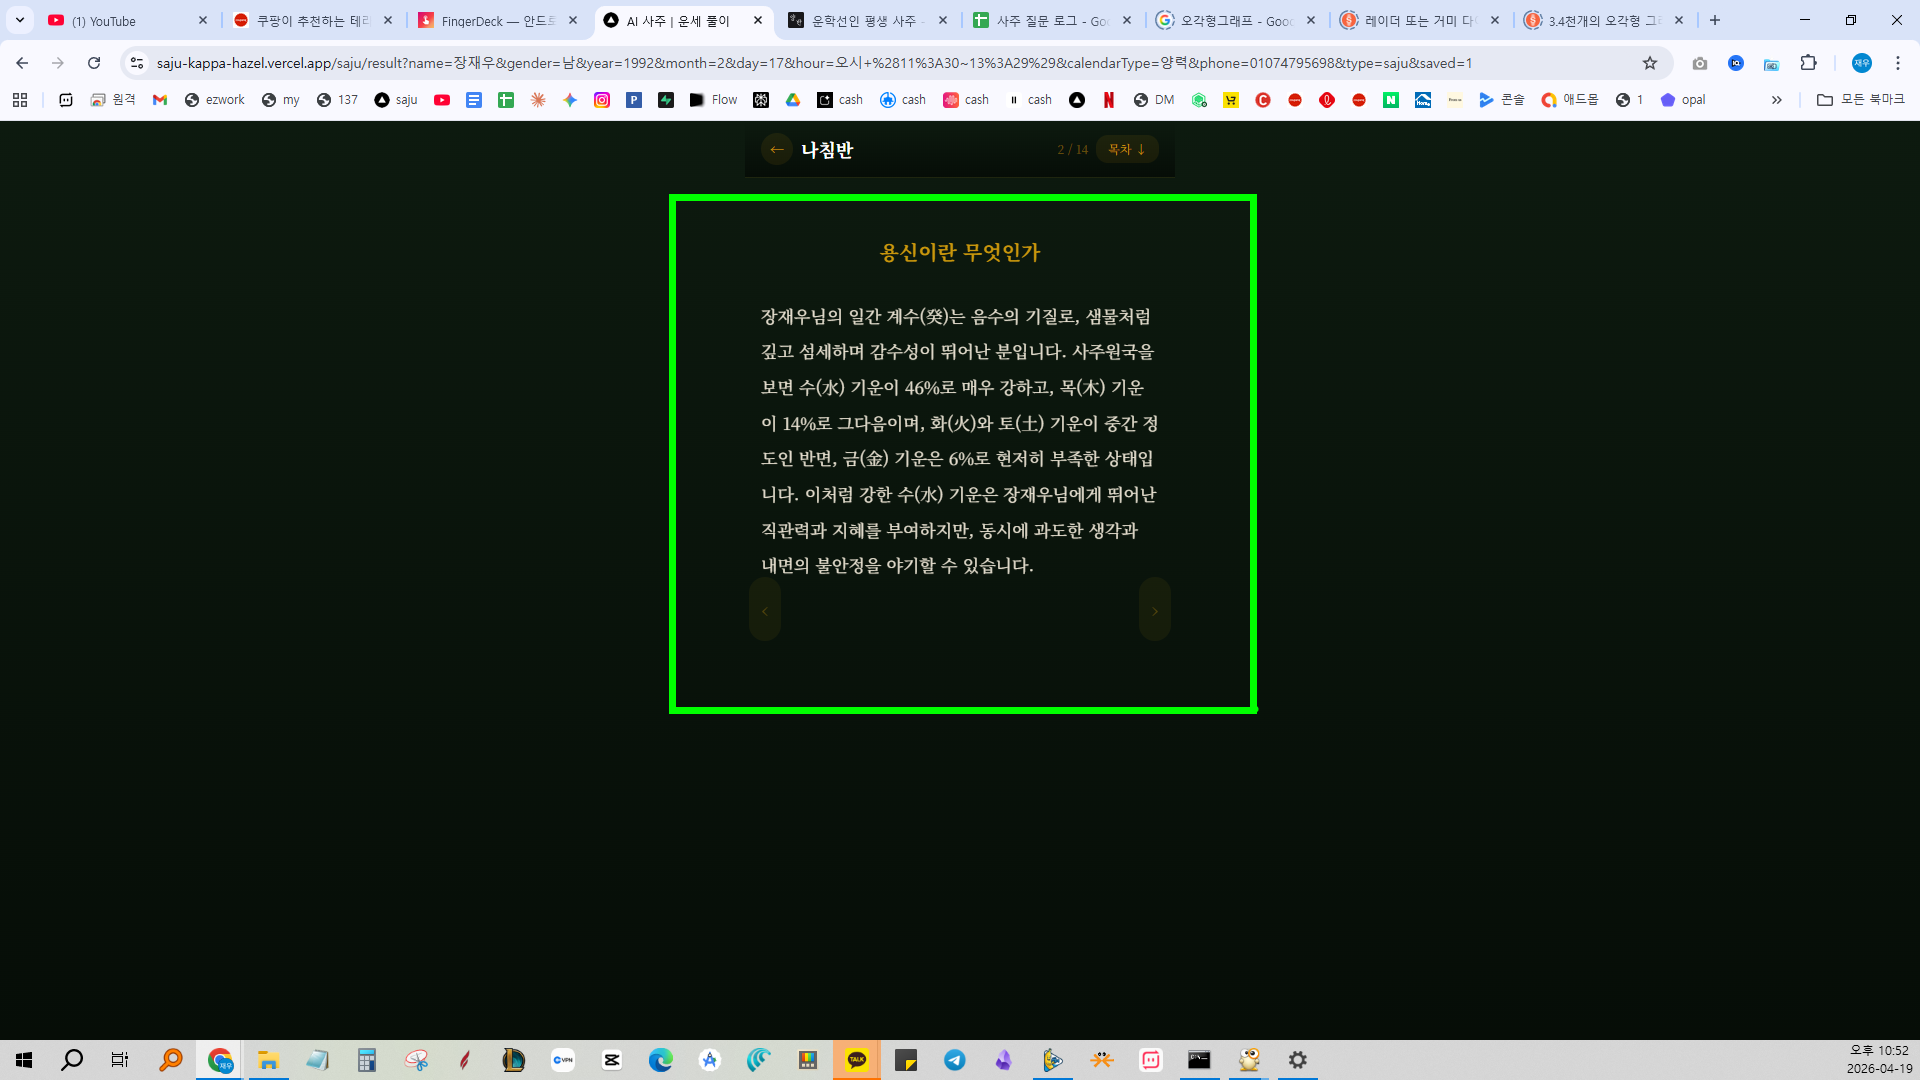
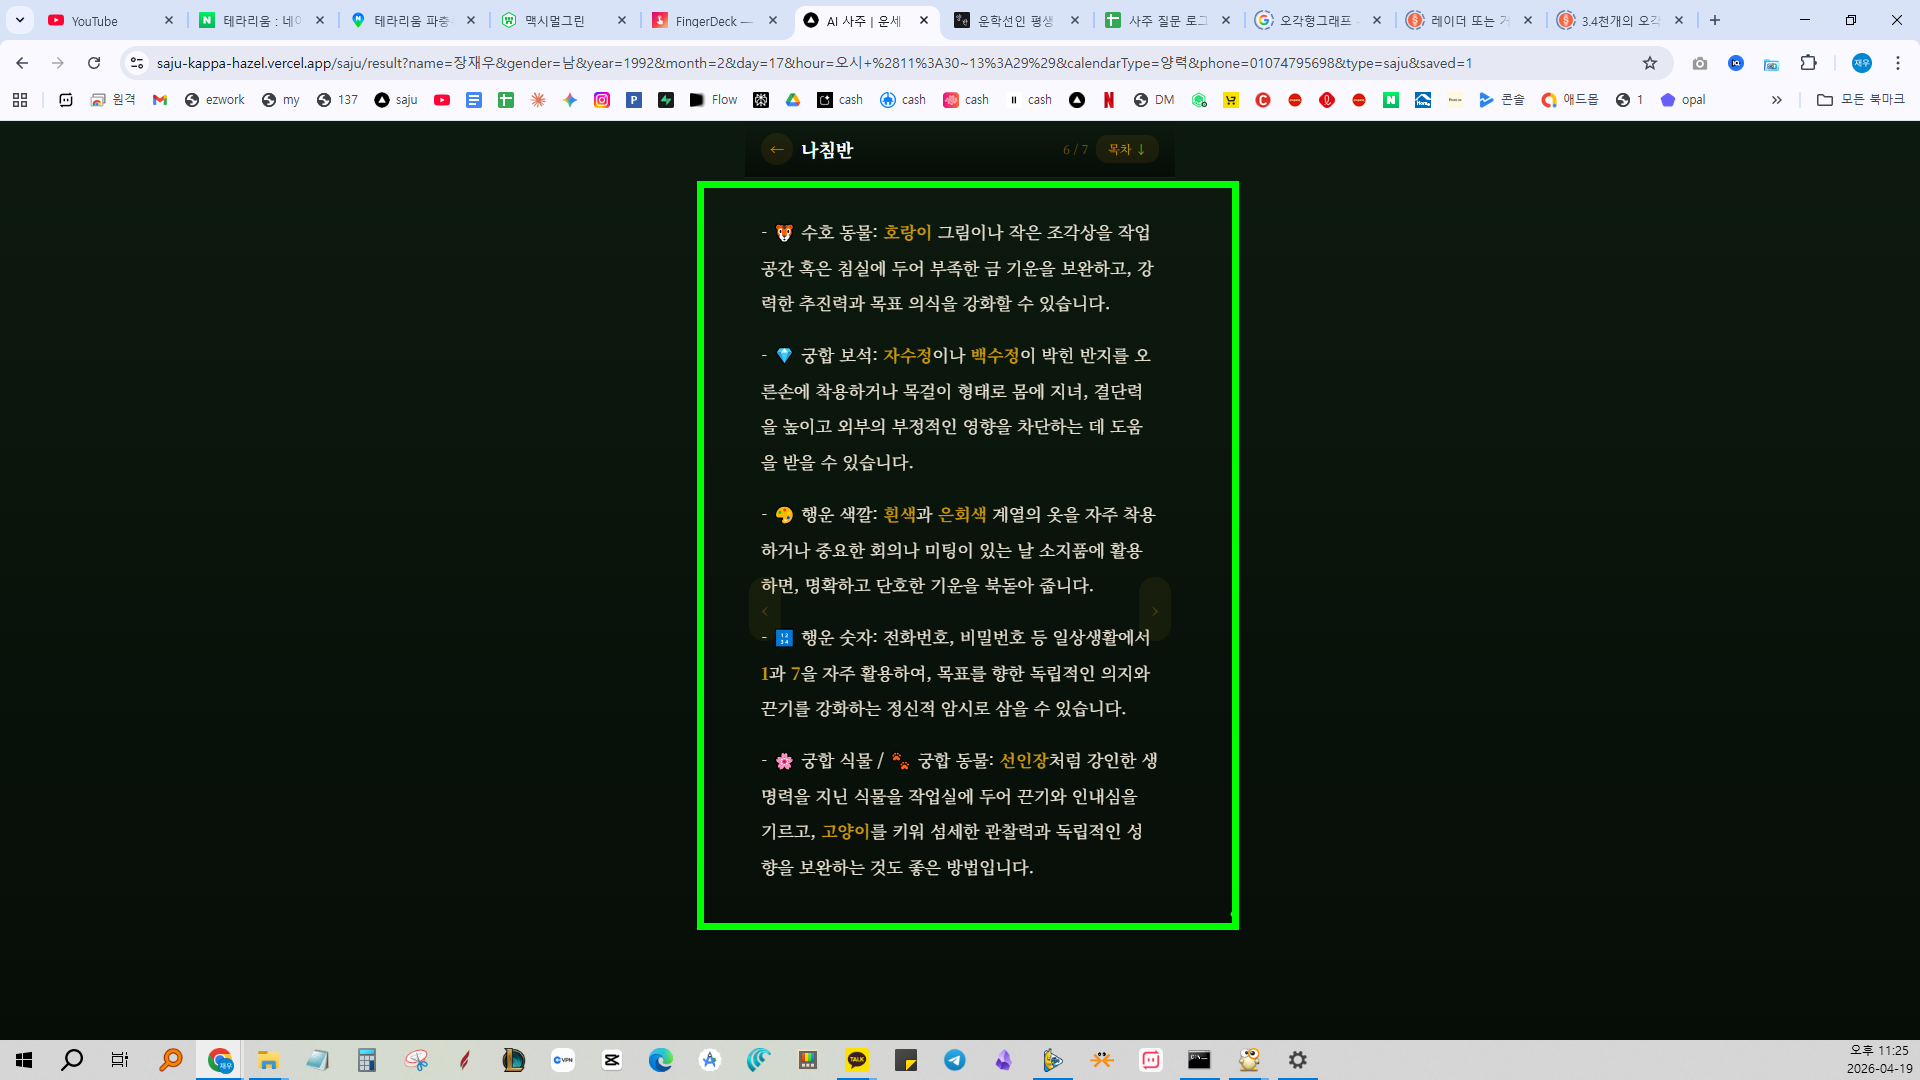
나침반-핵심요약 아이템 일관성 보장
- fetchSection 호출 시 overview 완료 후 content를 compass에 주입
- aiContentRef로 최신 상태 추적
- compass 프롬프트에 overviewContent를 injection하여 같은 아이템 재사용 강제
- 이모지·불릿 제거, 산문 흐름 안으로 녹이도록 지시

diff --git a/app/api/generate/route.ts b/app/api/generate/route.ts
@@ -741,27 +741,24 @@ ${s?.sinsal && s.sinsal.length > 0
 
   compass: (d, ctx) => `${buildHeader(d, ctx)}
 
+[핵심 요약 페이지에서 ${d.name}님에게 이미 공개된 아이템 — 이 값들을 그대로 존중해서 다시 언급할 것. 새 값 만들기 절대 금지]
+${d.overviewContent || '(핵심 요약 데이터 없음 — 이 경우 아이템을 새로 만들지 말고 "수호 동물", "궁합 보석", "행운 색깔" 같이 총칭으로만 언급)'}
+
 [풀이 요청]
 아래 2개의 ### 소제목으로 작성하세요. 각 소제목은 하나의 페이지입니다. 각 소제목 아래 내용은 2~3문단 이내로 간결하게.
 
 [중요한 금지사항]
-✗ "용신" 이라는 단어 절대 사용 금지 (개념은 쓰되 "이 사주에 가장 필요한 에너지"·"보충해야 할 기운" 같은 풀어쓴 표현으로만)
-✗ "오늘부터 실천할 루틴" 같은 잔소리 금지 (아침·저녁 루틴 나열 금지)
-✗ 앞 섹션들과 중복된 내용 반복 금지
+✗ "용신" 단어 절대 사용 금지 — "가장 필요한 에너지", "보충해야 할 기운" 등 풀어쓴 표현만
+✗ 위 핵심 요약에 있는 아이템과 다른 값을 만들어 내면 안 됨 (수호동물·보석·색깔·숫자·식물 값이 달라지면 풀이 전체가 무효)
+✗ 이모지(🐯💎🎨🔢🌸🐾) 사용 금지
+✗ 불릿(-) 나열 금지 — 흐르는 산문으로만
+✗ 아침·저녁 루틴 같은 잔소리 금지
 
 ### 이 사주를 빛나게 하는 길
-앞에서 풀이한 이 사주의 가장 뛰어난 부분(강점)을 2~3문장으로 응축해서 상기시키세요. 그 강점을 극대화하려면 일상에서 어떤 방향으로 움직여야 하는지 구체적으로. 강점이 가장 빛나는 상황을 하나만 생생하게 묘사.
+이 사주의 가장 뛰어난 부분(강점) 2~3문장으로 응축. 그 강점을 극대화하려면 일상에서 어떤 방향으로 움직여야 하는지 구체적 지침. 강점이 가장 빛나는 상황 하나를 생생하게 묘사.
 
 ### 부족함을 채우는 길
-앞에서 풀이한 이 사주의 부족한 부분(약점)을 2~3문장으로 응축. 그 부족함을 보완하기 위해 아래 5가지 아이템(이미 '핵심 요약' 페이지에서 유저가 본 것들)을 실생활에서 어떻게 활용하면 좋은지 **구체적으로** 알려주세요:
-
-- 🐯 수호 동물: 이 기운을 대신 채워주는 존재로 해석. 집이나 사무실에 어떤 형태로 두면 좋은지 (그림·인형·장식 등)
-- 💎 궁합 보석: 몸에 지니면 부족한 기운이 보강됨. 어떤 형태(반지·목걸이·주머니) 가 좋은지
-- 🎨 행운 색깔: 옷·소지품·공간에 섞는 법. 특히 중요한 날·미팅에 활용하는 법
-- 🔢 행운 숫자: 전화번호·비밀번호·약속 날짜에 적용하는 아이디어
-- 🌸 궁합 식물 / 🐾 궁합 동물: 침실·작업실에 두거나 실제로 키울 때 어떤 효과가 나타나는지
-
-구체적 동작 지침 중심. 각 아이템을 장황하게 설명하지 말고 "왜 + 어떻게" 한 줄씩.
+이 사주의 부족한 부분(약점) 2~3문장으로 응축. 위 핵심 요약에 나와 있는 ${d.name}님의 수호 동물·궁합 식물·궁합 보석·행운 색깔·행운 숫자·궁합 동물을 **흐르는 산문 안에** 자연스럽게 엮어서 이렇게 활용하면 약점이 보완된다는 식으로 풀어 쓰세요. 카탈로그 나열 금지, 한두 개 아이템을 중심 비유로 삼아 부드럽게.
 
 마지막 문단은 ${d.name}님에게 전하는 따뜻한 응원 2~3문장으로 마무리.
 

diff --git a/components/SajuSlideResult.tsx b/components/SajuSlideResult.tsx
@@ -507,6 +507,7 @@ export default function SajuSlideResult() {
   const tapStartRef = useRef<{x:number; y:number} | null>(null);
   const saveTimerRef = useRef<ReturnType<typeof setTimeout>|null>(null);
   const savedRef = useRef(false);
+  const aiContentRef = useRef<Record<string,SectionState>>({});
 
   const name         = params.get("name")         || "";
   const gender       = params.get("gender")       || "";
@@ -635,9 +636,13 @@ export default function SajuSlideResult() {
   // AI 섹션 fetch 헬퍼
   const fetchSection = (key: string): Promise<void> => {
     setAiContent(prev => ({ ...prev, [key]:{ status:'loading', content:'' } }));
+    const extra: Record<string,string> = {};
+    if (key === 'compass') {
+      extra.overviewContent = aiContentRef.current['overview']?.content || '';
+    }
     return fetch("/api/generate", {
       method:"POST", headers:{"Content-Type":"application/json"},
-      body: JSON.stringify({ ...baseBody, section:key }),
+      body: JSON.stringify({ ...baseBody, section:key, ...extra }),
     }).then(async res => {
       if (!res.ok) throw new Error();
       const ct = res.headers.get('Content-Type') ?? '';
@@ -682,7 +687,11 @@ export default function SajuSlideResult() {
           setAiPages(prev => ({ ...prev, [key]: splitIntoPages(full) }));
           setAiPage(prev => ({ ...prev, [key]: prev[key] ?? 0 }));
         }
-        setAiContent(prev => ({ ...prev, [key]:{ status:'done', content: full } }));
+        setAiContent(prev => {
+          const next = { ...prev, [key]:{ status:'done' as const, content: full } };
+          aiContentRef.current = next;
+          return next;
+        });
 
       } else {
         // ── JSON 모드 (릴레이) ──
